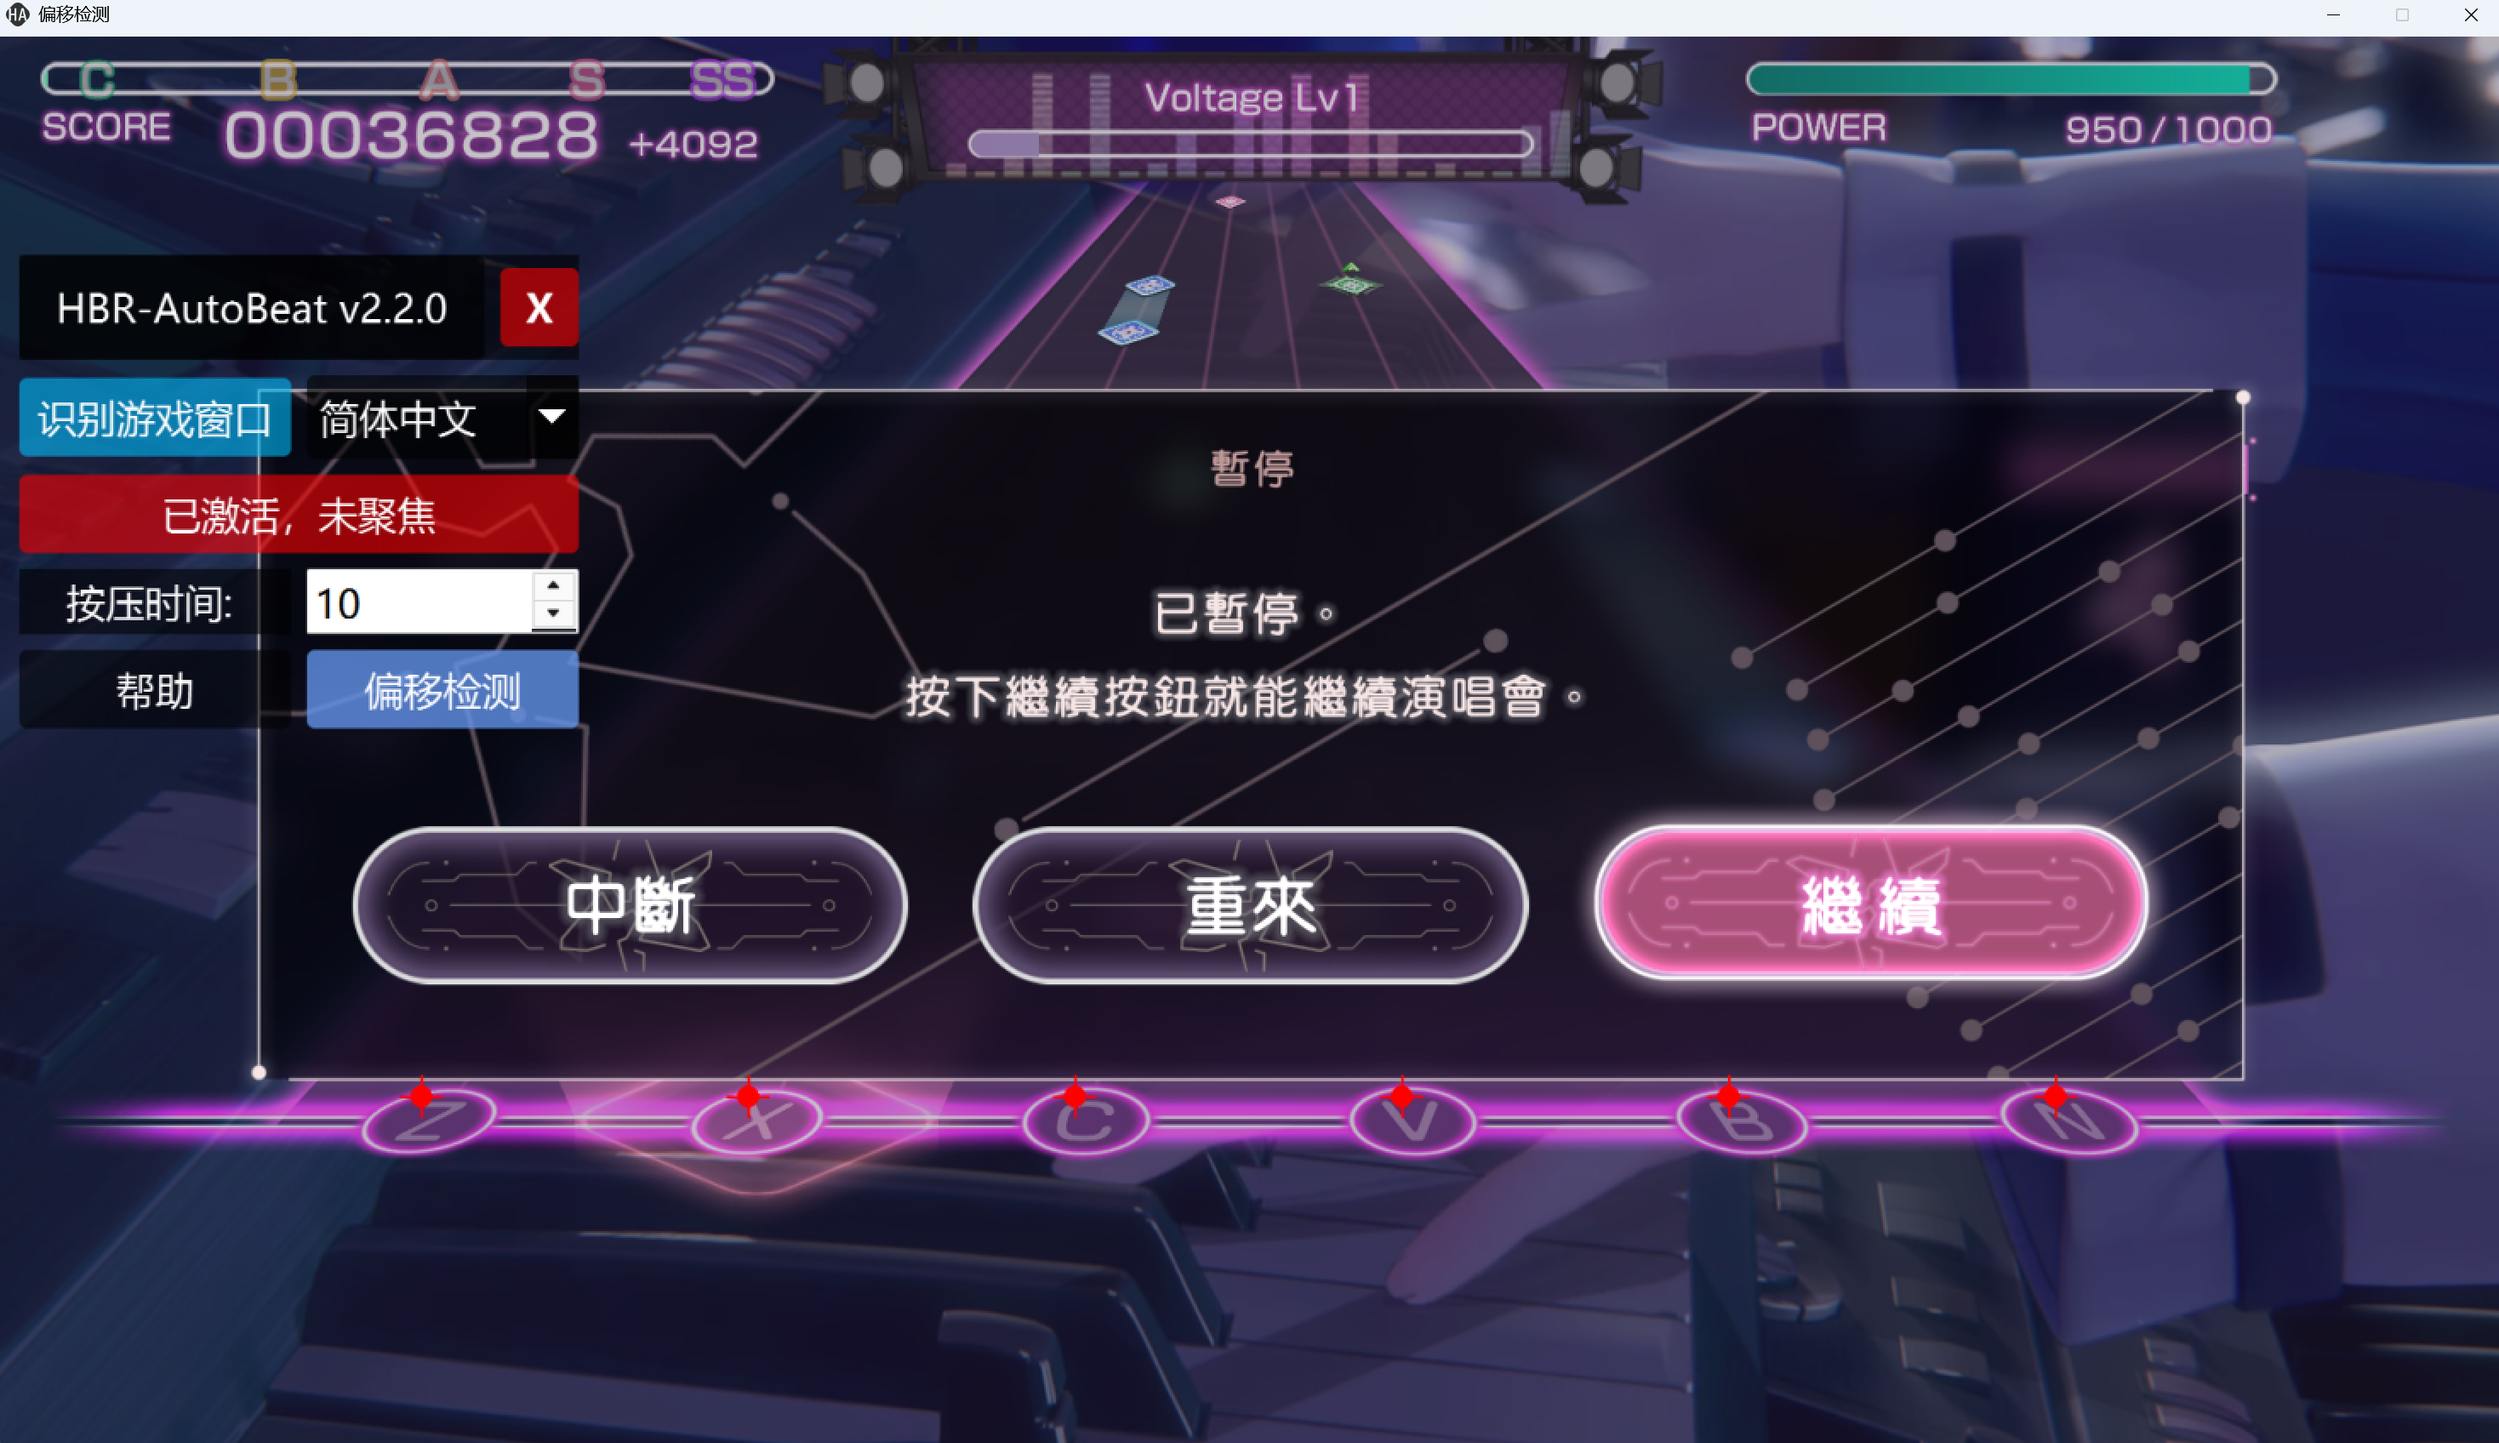
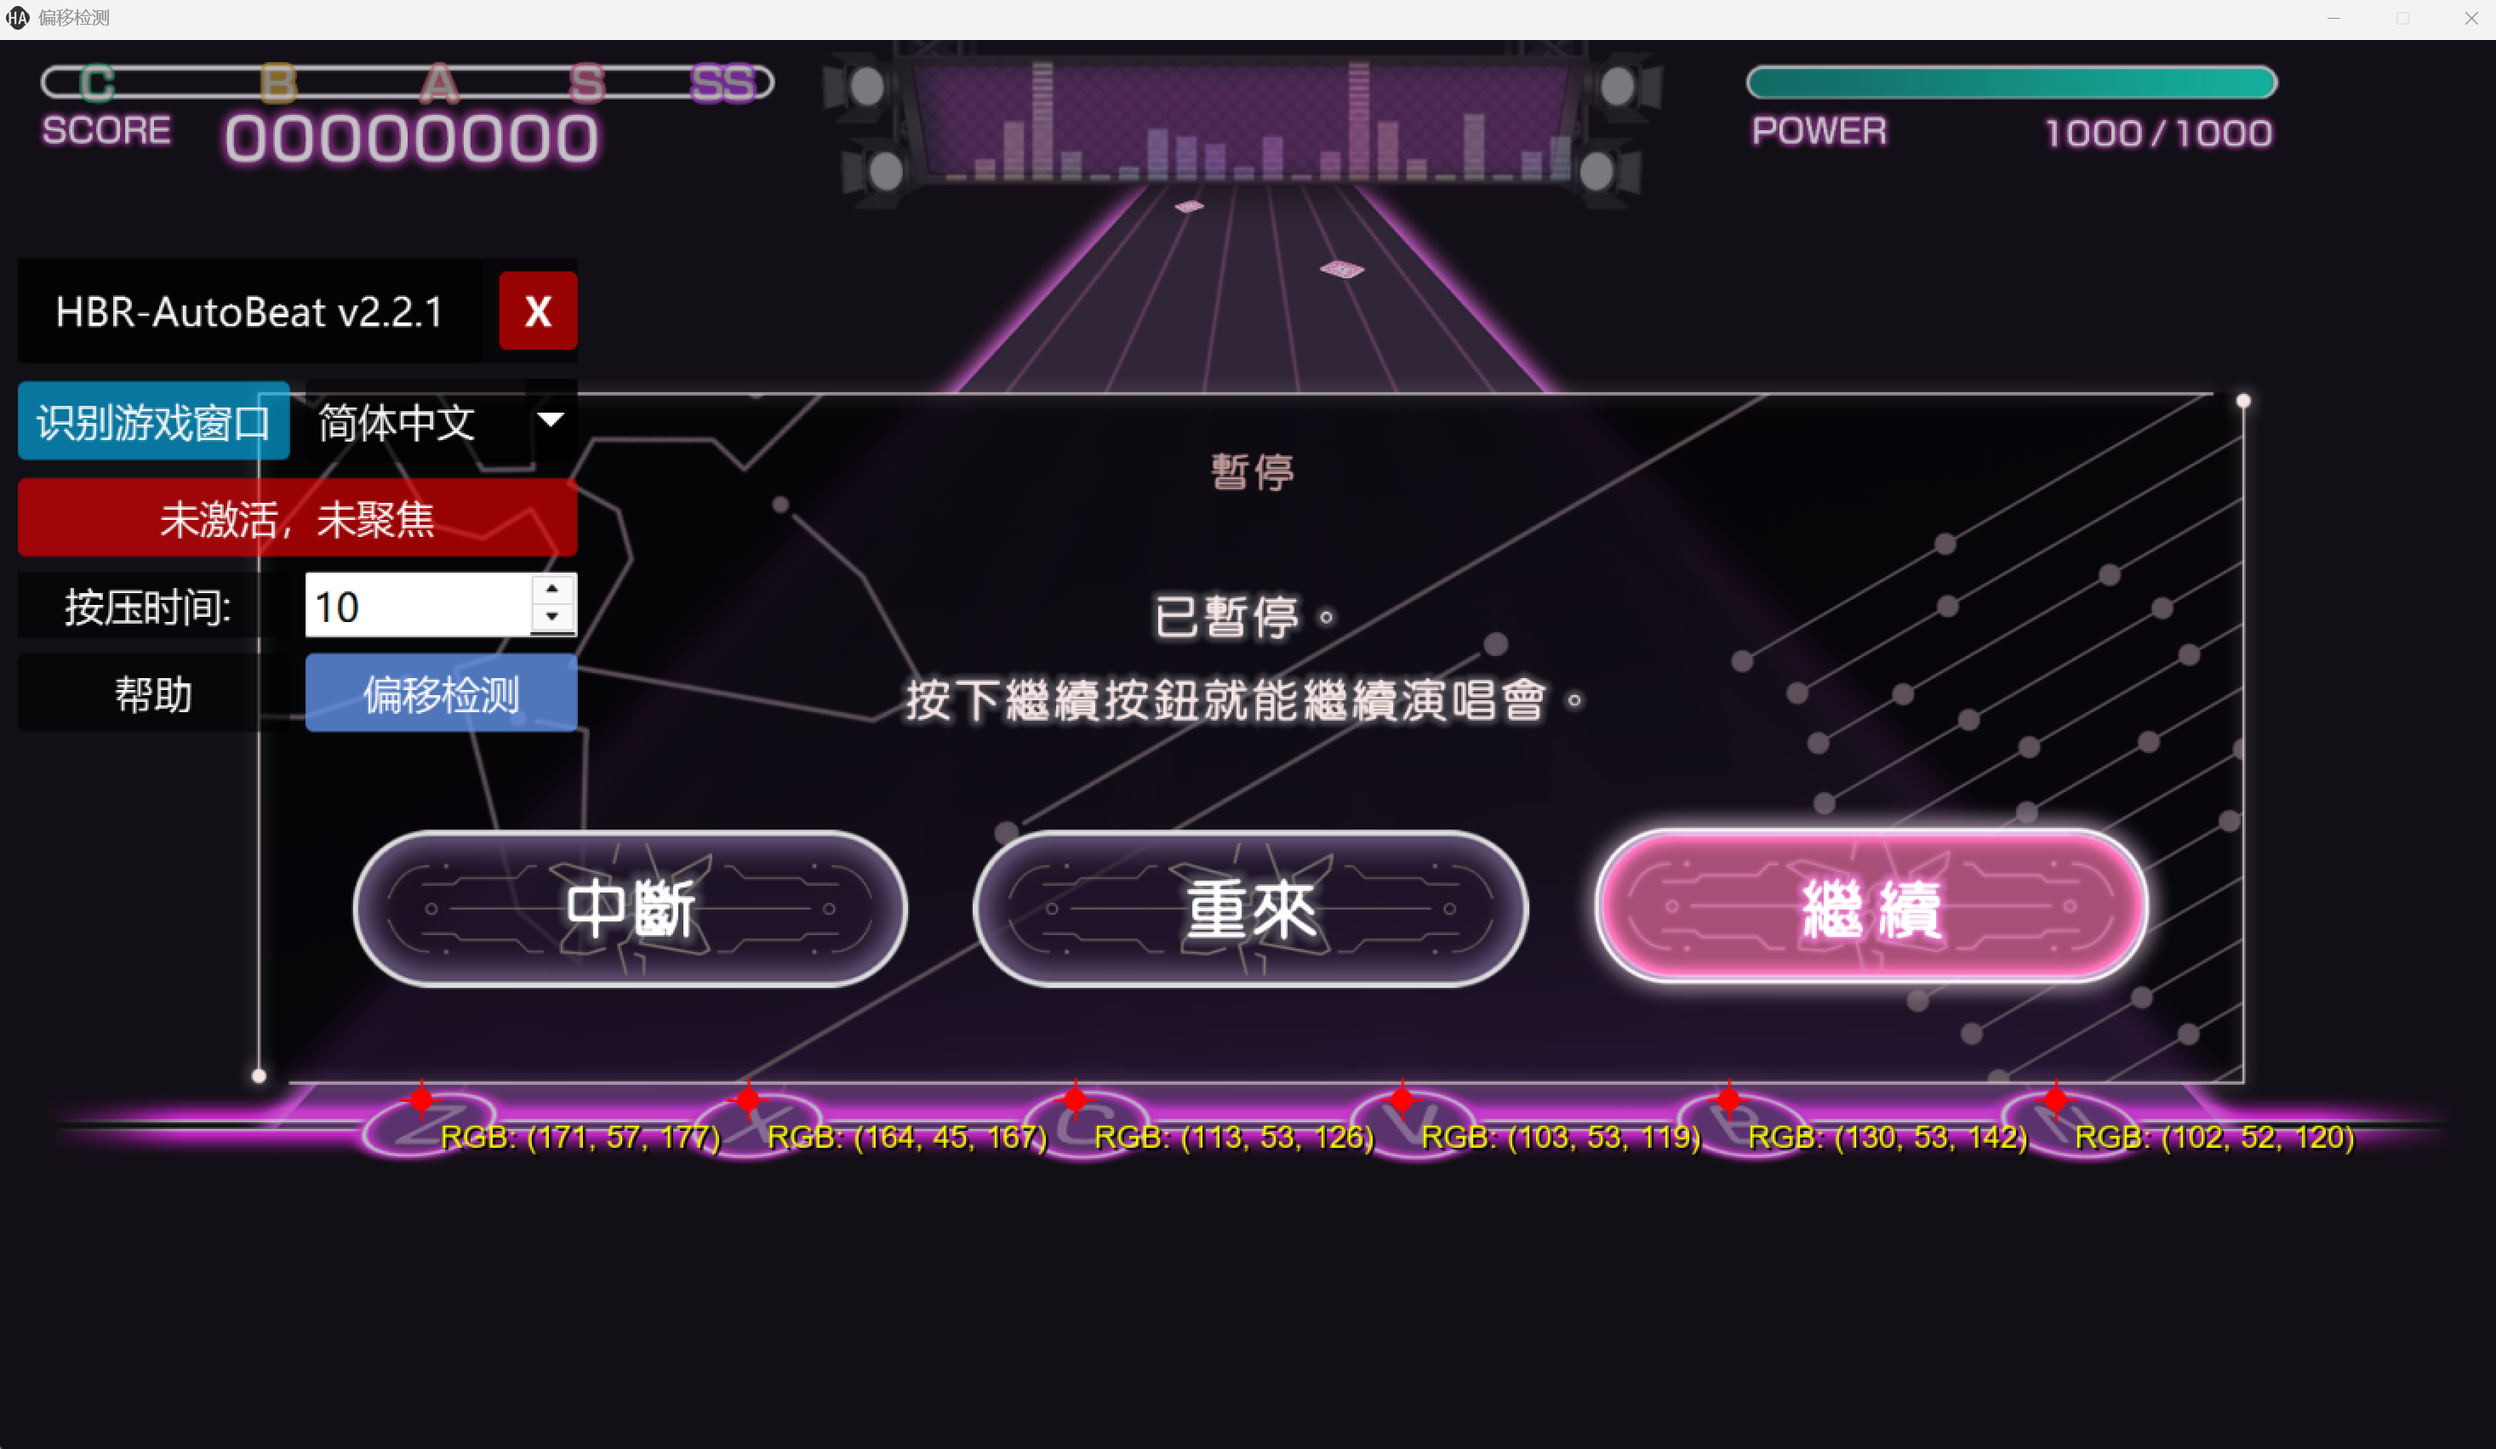
feat: sync offset detection logic and update version to v2.2.1

diff --git a/ui/main_window.py b/ui/main_window.py
@@ -41,6 +41,7 @@ class TransparentWindow(QMainWindow):
     def __init__(self, points, local_version=None):
         super().__init__()
         # Defer expensive window detection (win32 calls) to async worker
+        self.points = points
         self.client_left = 0
         self.client_top = 0
         self.client_width = 1920
@@ -77,7 +78,7 @@ class TransparentWindow(QMainWindow):
             self.max_x,
         ) = init(
             "HeavenBurnsRed",
-            [(325, 810), (575, 810), (825, 810), (1075, 810), (1325, 810), (1575, 810)],
+            self.points,
         )
         # Adjust for DPI scaling: win32gui returns physical pixels, Qt expects logical pixels
         scale = get_dpi_scale_factor()
@@ -93,14 +94,7 @@ class TransparentWindow(QMainWindow):
 
         def _worker():
             try:
-                pts = points or [
-                    (325, 810),
-                    (575, 810),
-                    (825, 810),
-                    (1075, 810),
-                    (1325, 810),
-                    (1575, 810),
-                ]
+                pts = points or self.points
                 (
                     client_left,
                     client_top,
@@ -147,60 +141,61 @@ class TransparentWindow(QMainWindow):
     def showOffsetDetection(self):
         """显示游戏窗口截图并标出识别点位置"""
         try:
-            from PIL import ImageDraw
+            from PIL import ImageDraw, ImageFont
             from PyQt5.QtCore import Qt as QtCore
             from PyQt5.QtGui import QImage, QPixmap
             from PyQt5.QtWidgets import QDialog, QLabel, QVBoxLayout
 
-            from core.window_helpers import find_hbr_window
+            from core.window_helpers import capture_screenshot, find_hbr_window, init
 
-            # 获取游戏窗口
-            hwnd = find_hbr_window("HeavenBurnsRed")
-
-            if hwnd is None:
+            # 使用和核心引擎完全一致的方式获取窗口信息
+            try:
+                (
+                    self.client_left,
+                    self.client_top,
+                    self.client_width,
+                    self.client_height,
+                    self.y_value,
+                    self.min_x,
+                    self.max_x,
+                ) = init("HeavenBurnsRed", self.points, test_flag=True)
+            except Exception:
+                #  fallback: 如果由于各种原因（如分辨率不匹配）导致 init 报错，提示用户
                 QMessageBox.warning(
                     self,
                     t("offset_detect", self.language),
-                    t("hbr_not_found", self.language),
+                    t("hbr_not_found", self.language) if find_hbr_window("HeavenBurnsRed") is None else t("resolution_mismatch", self.language),
                 )
                 return
 
-            # 尝试激活并聚焦窗口，确保截图是最新的
-            try:
-                if win32gui.IsIconic(hwnd):
-                    win32gui.ShowWindow(hwnd, win32con.SW_RESTORE)
-                win32gui.SetForegroundWindow(hwnd)
-                time.sleep(0.1)
-            except Exception:
-                pass
-
-            # 获取窗口客户区信息（屏幕坐标）
-            client_rect = win32gui.GetClientRect(hwnd)
-            left, top = win32gui.ClientToScreen(hwnd, (client_rect[0], client_rect[1]))
-            right, bottom = win32gui.ClientToScreen(
-                hwnd, (client_rect[2], client_rect[3])
-            )
-
-            # 使用 ImageGrab 直接从屏幕抓取，比 BitBlt 抓取窗口 DC 更可靠且不会有缓存
-            from PIL import ImageGrab
-
-            screenshot = ImageGrab.grab(
-                bbox=(left, top, right, bottom), all_screens=True
+            # 使用和核心引擎相同的截图方式 (BitBlt)，确保所见即所得
+            screenshot = capture_screenshot(
+                self.client_left,
+                self.client_top,
+                self.client_width,
+                self.client_height,
             )
 
             # 在图像上标记识别点
             draw = ImageDraw.Draw(screenshot)
-            points = [
-                (325, 810),
-                (575, 810),
-                (825, 810),
-                (1075, 810),
-                (1325, 810),
-                (1575, 810),
-            ]
+            
+            # 尝试加载字体以获得更好的可读性
+            try:
+                # Windows 常用字体路径
+                font = ImageFont.truetype("arial.ttf", 24)
+            except Exception:
+                font = None
 
-            for point in points:
+            for point in self.points:
                 x, y = point
+                
+                # 获取该点的原始颜色（在画红点标记之前）
+                try:
+                    r, g, b = screenshot.getpixel((x, y))
+                    color_text = f"RGB: ({r}, {g}, {b})"
+                except Exception:
+                    color_text = "N/A"
+
                 radius = 8
                 draw.ellipse(
                     [x - radius, y - radius, x + radius, y + radius],
@@ -210,6 +205,15 @@ class TransparentWindow(QMainWindow):
                 )
                 draw.line([x - radius * 2, y, x + radius * 2, y], fill="red", width=2)
                 draw.line([x, y - radius * 2, x, y + radius * 2], fill="red", width=2)
+
+                # 在点位旁边标注 RGB 数值，增加黑色阴影以提高辨识度
+                text_pos = (x + 15, y + 15)
+                if font:
+                    draw.text((text_pos[0]+2, text_pos[1]+2), color_text, fill="black", font=font)
+                    draw.text(text_pos, color_text, fill="yellow", font=font)
+                else:
+                    draw.text((text_pos[0]+1, text_pos[1]+1), color_text, fill="black")
+                    draw.text(text_pos, color_text, fill="yellow")
 
             # 转换为 QPixmap (通过内存，完全不使用磁盘临时文件，彻底杜绝缓存)
             img_data = screenshot.tobytes("raw", "RGB")

diff --git a/main.py b/main.py
@@ -39,7 +39,7 @@ from ui.main_window import create_overlay  # noqa: E402
 hold_th = 10
 single_run_time = 0.015
 low_performance_state = False
-LOCAL_VERSION = "v2.2.0"
+LOCAL_VERSION = "v2.2.1"
 window = None
 running = False
 focus = None
@@ -96,7 +96,7 @@ if __name__ == "__main__":
 
     # 设置 Windows 的 AppUserModelID，确保任务栏图标显示正确
     try:
-        myappid = "yujianke100.HBR-AutoBeat.v2.2.0"
+        myappid = "yujianke100.HBR-AutoBeat.v2.2.1"
         ctypes.windll.shell32.SetCurrentProcessExplicitAppUserModelID(myappid)
     except Exception:
         pass
